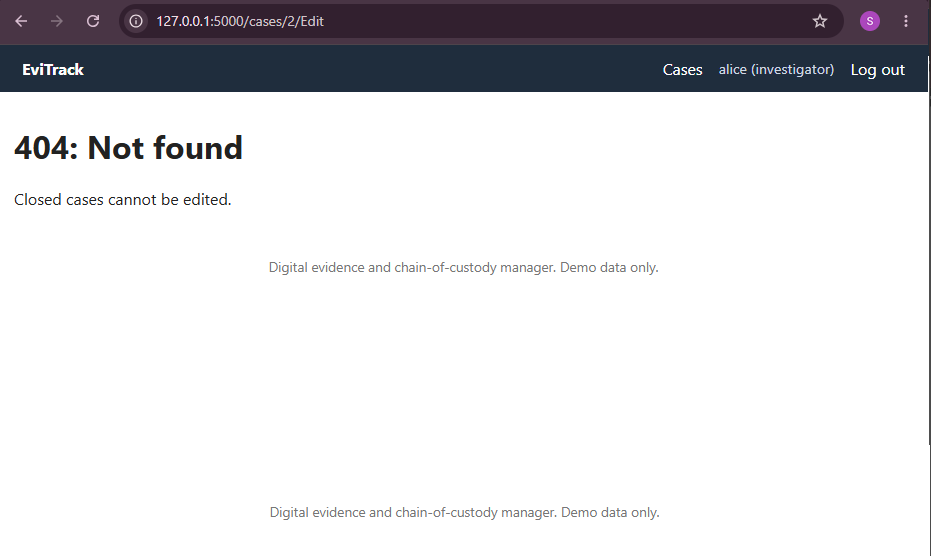
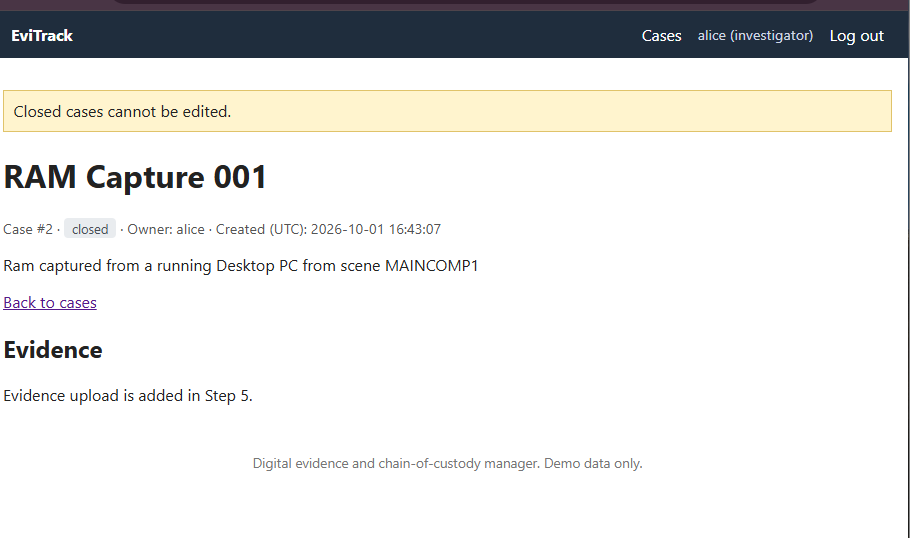
feat: evidence upload with streaming SHA-256 hashing, validation and tests

diff --git a/app/templates/case_detail.html b/app/templates/case_detail.html
@@ -28,5 +28,27 @@
   </div>
 
   <h2>Evidence</h2>
-  <p>Evidence upload is added in Step 5.</p>
+  {% if case['status'] == 'open' %}
+    <p><a class="button" href="{{ url_for('evidence.upload', case_id=case['id']) }}">Upload evidence</a></p>
+  {% endif %}
+  {% if evidence %}
+    <table>
+      <thead>
+        <tr><th>ID</th><th>File</th><th>SHA-256</th><th>Uploaded by</th><th>Uploaded (UTC)</th></tr>
+      </thead>
+      <tbody>
+        {% for e in evidence %}
+          <tr>
+            <td>{{ e['id'] }}</td>
+            <td>{{ e['original_name'] }}</td>
+            <td><code class="hash">{{ e['sha256'] }}</code></td>
+            <td>{{ e['uploader'] }}</td>
+            <td>{{ e['uploaded_at'] }}</td>
+          </tr>
+        {% endfor %}
+      </tbody>
+    </table>
+  {% else %}
+    <p>No evidence uploaded yet.</p>
+  {% endif %}
 {% endblock %}

diff --git a/app/templates/evidence_upload.html b/app/templates/evidence_upload.html
@@ -1,0 +1,19 @@
+{% extends "base.html" %}
+{% block title %}Upload evidence - EviTrack{% endblock %}
+{% block content %}
+  <h1>Upload evidence</h1>
+  <p class="meta">Case #{{ case['id'] }}: {{ case['title'] }}</p>
+  <form method="post" enctype="multipart/form-data" class="stack">
+    <input type="hidden" name="csrf_token" value="{{ csrf_token() }}">
+    <label for="file">Evidence file</label>
+    <input type="file" name="file" id="file" required>
+    <p class="upload-note">
+      Allowed types: {{ allowed | join(', ') }}. Maximum size: {{ max_mb }} MB.
+      A SHA-256 hash is calculated and stored on upload. Demo data only.
+    </p>
+    <div class="actions">
+      <button type="submit" class="button">Upload and hash</button>
+      <a href="{{ url_for('cases.detail', case_id=case['id']) }}">Cancel</a>
+    </div>
+  </form>
+{% endblock %}

diff --git a/app/static/style.css b/app/static/style.css
@@ -55,3 +55,5 @@ form.stack { max-width: 560px; display: grid; gap: 0.5rem; }
 form.stack input, form.stack textarea { padding: 0.5rem; font: inherit; }
 .meta { color: #555; font-size: 0.9rem; }
 .desc { white-space: pre-wrap; }
+code.hash { font-size: 0.75rem; word-break: break-all; }
+.upload-note { color: #555; font-size: 0.9rem; }

diff --git a/app/templates/413.html b/app/templates/413.html
@@ -1,0 +1,7 @@
+{% extends "base.html" %}
+{% block title %}File too large - EviTrack{% endblock %}
+{% block content %}
+  <h1>413: File too large</h1>
+  <p>The file you tried to upload exceeds the maximum allowed size.</p>
+  <p><a href="{{ url_for('cases.index') }}">Back to cases</a></p>
+{% endblock %}

diff --git a/app/templates/404.html b/app/templates/404.html
@@ -2,5 +2,5 @@
 {% block title %}Not found - EviTrack{% endblock %}
 {% block content %}
   <h1>404: Not found</h1>
-  <p>Closed cases cannot be edited.</p>
+  <p>The page or case you requested does not exist.</p>
 {% endblock %}

diff --git a/tests/test_evidence.py b/tests/test_evidence.py
@@ -1,0 +1,135 @@
+import hashlib
+import io
+import os
+
+import pytest
+
+from app.db import get_db
+from app.utils import sha256_of_file
+
[1 lines of base64/hex data omitted]
+
+
+def upload(client, case_id=1, name="notes.txt", data=b"hello evidence"):
+    return client.post(
+        f"/cases/{case_id}/evidence/upload",
+        data={"file": (io.BytesIO(data), name)},
+        content_type="multipart/form-data",
+    )
+
+
+def evidence_rows(app):
+    with app.app_context():
+        return get_db().execute("SELECT * FROM evidence").fetchall()
+
+
+def stored_files(app):
+    return os.listdir(app.config["UPLOAD_FOLDER"])
+
+
+@pytest.fixture
+def case_client(client, auth):
+    auth.register()
+    auth.login()
+    client.post("/cases/new", data={"title": "Test case", "description": "x"})
+    return client
+
+
+def test_upload_requires_login(client):
+    resp = upload(client)
+    assert resp.status_code == 302
+    assert "/auth/login" in resp.headers["Location"]
+
+
+def test_upload_stores_correct_hash(case_client, app):
+    data = b"hello evidence"
+    assert upload(case_client, data=data).status_code == 302
+    row = evidence_rows(app)[0]
+    expected = hashlib.sha256(data).hexdigest()
+    assert row["sha256"] == expected
+    assert row["original_name"] == "notes.txt"
+    assert row["case_id"] == 1
+    assert row["uploaded_by"] == 1
+    path = os.path.join(app.config["UPLOAD_FOLDER"], row["stored_name"])
+    assert os.path.exists(path)
+    assert sha256_of_file(path) == expected
+
+
+def test_known_sha256_vector(case_client, app):
+    upload(case_client, data=b"abc")
+    assert evidence_rows(app)[0]["sha256"] == ABC_SHA256
+
+
+def test_stored_name_is_random_and_has_no_extension(case_client, app):
+    upload(case_client)
+    row = evidence_rows(app)[0]
+    assert row["stored_name"] != row["original_name"]
+    assert "." not in row["stored_name"]
+    assert len(row["stored_name"]) == 32
+
+
+def test_filename_is_sanitised(case_client, app):
+    upload(case_client, name="../../evil.txt")
+    assert evidence_rows(app)[0]["original_name"] == "evil.txt"
+    assert len(stored_files(app)) == 1
+
+
+@pytest.mark.parametrize("name", [
+    "run.exe", "page.php", "script.sh", "report.txt.exe", "noextension",
+])
+def test_disallowed_extension_rejected(case_client, app, name):
+    resp = upload(case_client, name=name)
+    assert b"not allowed" in resp.data
+    assert evidence_rows(app) == []
+    assert stored_files(app) == []
+
+
+def test_empty_file_rejected(case_client, app):
+    resp = upload(case_client, data=b"")
+    assert b"empty" in resp.data
+    assert evidence_rows(app) == []
+    assert stored_files(app) == []
+
+
+def test_no_file_selected(case_client, app):
+    resp = case_client.post(
+        "/cases/1/evidence/upload",
+        data={"note": "x"},
+        content_type="multipart/form-data",
+    )
+    assert b"choose a file" in resp.data
+    assert evidence_rows(app) == []
+
+
+def test_closed_case_blocks_upload(case_client, app):
+    case_client.post("/cases/1/status", data={"status": "closed"})
+    resp = upload(case_client)
+    assert resp.status_code == 302
+    assert evidence_rows(app) == []
+    assert stored_files(app) == []
+
+
+def test_other_investigator_gets_404(client, auth, app):
+    auth.register("alice")
+    auth.login("alice")
+    client.post("/cases/new", data={"title": "Alice case", "description": ""})
+    auth.logout()
+    auth.register("bob")
+    auth.login("bob")
+    assert upload(client).status_code == 404
+    assert evidence_rows(app) == []
+    assert stored_files(app) == []
+
+
+def test_oversize_upload_rejected(case_client, app):
+    app.config["MAX_CONTENT_LENGTH"] = 1024
+    resp = upload(case_client, data=b"x" * 4096)
+    assert resp.status_code == 413
+    assert evidence_rows(app) == []
+
+
+def test_evidence_listed_on_case_page(case_client):
+    upload(case_client, data=b"abc")
+    page = case_client.get("/cases/1")
+    assert b"notes.txt" in page.data
+    assert ABC_SHA256.encode() in page.data

diff --git a/app/evidence.py b/app/evidence.py
@@ -1,0 +1,67 @@
+import os
+
+from flask import (Blueprint, current_app, flash, g, redirect,
+                   render_template, request, url_for)
+from werkzeug.utils import secure_filename
+
+from .auth import login_required
+from .cases import get_case_or_404
+from .db import get_db
+from .utils import ALLOWED_EXTENSIONS, allowed_file, save_upload
+
+bp = Blueprint("evidence", __name__, url_prefix="/cases")
+
+
+@bp.route("/<int:case_id>/evidence/upload", methods=("GET", "POST"))
+@login_required
+def upload(case_id):
+    case = get_case_or_404(case_id)
+    if case["status"] == "closed":
+        flash("Evidence cannot be added to a closed case.")
+        return redirect(url_for("cases.detail", case_id=case_id))
+
+    if request.method == "POST":
+        file = request.files.get("file")
+        error = None
+        original_name = ""
+
+        if file is None or file.filename == "":
+            error = "Please choose a file."
+        else:
+            original_name = secure_filename(file.filename)
+            if not original_name:
+                error = "Invalid file name."
+            elif not allowed_file(original_name):
+                error = "That file type is not allowed."
+
+        if error is None:
+            folder = current_app.config["UPLOAD_FOLDER"]
+            stored_name, digest, size = save_upload(file, folder)
+            if size == 0:
+                os.remove(os.path.join(folder, stored_name))
+                error = "The file is empty."
+            else:
+                db = get_db()
+                try:
+                    db.execute(
+                        "INSERT INTO evidence "
+                        "(case_id, original_name, stored_name, sha256, uploaded_by) "
+                        "VALUES (?, ?, ?, ?, ?)",
+                        (case_id, original_name, stored_name, digest, g.user["id"]),
+                    )
+                    db.commit()
+                except Exception:
+                    os.remove(os.path.join(folder, stored_name))
+                    raise
+                flash("Evidence uploaded and SHA-256 hash recorded.")
+                return redirect(url_for("cases.detail", case_id=case_id))
+
+        flash(error)
+
+    max_mb = current_app.config["MAX_CONTENT_LENGTH"] // (1024 * 1024)
+    return render_template(
+        "evidence_upload.html",
+        case=case,
+        allowed=sorted(ALLOWED_EXTENSIONS),
+        max_mb=max_mb,
+    )

diff --git a/app/utils.py b/app/utils.py
@@ -1,0 +1,51 @@
+import hashlib
+import os
+import uuid
+
+ALLOWED_EXTENSIONS = {
+    "txt", "log", "csv", "json", "pdf", "png", "jpg", "jpeg", "gif",
+    "docx", "xlsx", "zip", "eml", "sqlite", "db", "raw", "dd", "img",
+    "mem", "bin",
+}
+CHUNK_SIZE = 64 * 1024
+
+
+def allowed_file(filename):
+    """True if the (already sanitised) name has an allowlisted extension."""
+    if "." not in filename:
+        return False
+    return filename.rsplit(".", 1)[1].lower() in ALLOWED_EXTENSIONS
+
+
+def sha256_of_file(path):
+    """Hash a file on disk in chunks and return the hex digest."""
+    digest = hashlib.sha256()
+    with open(path, "rb") as f:
+        for chunk in iter(lambda: f.read(CHUNK_SIZE), b""):
+            digest.update(chunk)
+    return digest.hexdigest()
+
+
+def save_upload(file_storage, upload_folder):
+    """Stream an upload to disk under a random name, hashing as it goes.
+
+    Returns (stored_name, sha256_hex, size_in_bytes).
+    """
+    stored_name = uuid.uuid4().hex
+    path = os.path.join(upload_folder, stored_name)
+    digest = hashlib.sha256()
+    size = 0
+    try:
+        with open(path, "xb") as out:  # "x" refuses to overwrite an existing file
+            while True:
+                chunk = file_storage.stream.read(CHUNK_SIZE)
+                if not chunk:
+                    break
+                digest.update(chunk)
+                out.write(chunk)
+                size += len(chunk)
+    except Exception:
+        if os.path.exists(path):
+            os.remove(path)
+        raise
+    return stored_name, digest.hexdigest(), size

diff --git a/app/__init__.py b/app/__init__.py
@@ -32,11 +32,12 @@ def create_app(test_config=None):
 
     csrf.init_app(app)
 
-    from . import admin, auth, cases, db
+    from . import admin, auth, cases, db, evidence
     db.init_app(app)
     app.register_blueprint(auth.bp)
     app.register_blueprint(admin.bp)
     app.register_blueprint(cases.bp)
+    app.register_blueprint(evidence.bp)
     app.cli.add_command(auth.create_admin_command)
 
     @app.route("/")
@@ -50,5 +51,9 @@ def create_app(test_config=None):
     @app.errorhandler(404)
     def not_found(e):
         return render_template("404.html"), 404
+
+    @app.errorhandler(413)
+    def too_large(e):
+        return render_template("413.html"), 413
 
     return app

diff --git a/app/cases.py b/app/cases.py
@@ -78,7 +78,14 @@ def new():
 @login_required
 def detail(case_id):
     case = get_case_or_404(case_id)
-    return render_template("case_detail.html", case=case)
+    evidence = get_db().execute(
+        "SELECT e.id, e.original_name, e.sha256, e.uploaded_at, "
+        "u.username AS uploader "
+        "FROM evidence e JOIN users u ON u.id = e.uploaded_by "
+        "WHERE e.case_id = ? ORDER BY e.id",
+        (case_id,),
+    ).fetchall()
+    return render_template("case_detail.html", case=case, evidence=evidence)
 
 
 @bp.route("/<int:case_id>/edit", methods=("GET", "POST"))

diff --git a/docs/development_log.md b/docs/development_log.md
@@ -47,3 +47,19 @@ case ID enumeration; all timestamps stored and shown in UTC.
 is evidence-level; a separate audit log could be added as a stretch.
 **Problems / lessons:** (note anything)
 **Next:** Day 5, evidence upload and SHA-256 hashing.
+
+## Day 5: Evidence upload and SHA-256 hashing
+**Goal:** Accept evidence files and record an integrity hash.
+**Done:**
+- Streaming upload (64 KB chunks) hashed with SHA-256 in a single pass
+- Files stored with random names, no extension, in instance/uploads
+- Extension allowlist, size limit, 413 error page, empty-file check
+- Evidence table on the case page; upload blocked on closed cases
+- 16 new tests, including the published SHA-256 vector for "abc"
+- Manual check: app hash matches PowerShell Get-FileHash
+**Decisions:** hash computed server-side from the stored bytes; DB row written
+only after the file is safely on disk; no edit or delete routes for evidence.
+**Limitations:** allowlist checks extensions not content; file size not stored;
+no download route; uploads before Step 6 have no custody entries.
+**Problems / lessons:** (note anything)
+**Next:** Day 6, custody logging.

diff --git a/docs/threat_model.md b/docs/threat_model.md
@@ -18,3 +18,6 @@
 | 12 | Insecure direct object reference (viewing or editing another user's case) | Cases | Ownership check on every route; 404 instead of 403 | Done |
 | 13 | Stored XSS via case title or description | Users' browsers | Jinja autoescaping, no `|safe`; tested | Done |
 | 14 | Altering a closed case | Case integrity | Server-side status check on edit; only admins can reopen | Done |
+| 15 | Path traversal via file name | Server filesystem | secure_filename, random stored names, paths built server-side | Done |
+| 16 | Oversized upload / disk exhaustion | Availability | MAX_CONTENT_LENGTH with 413 handler | Done (no per-user quota) |
+| 17 | Executable or script upload | Server, other users | Extension allowlist; stored without extension; never served or executed | Done (no content inspection) |
